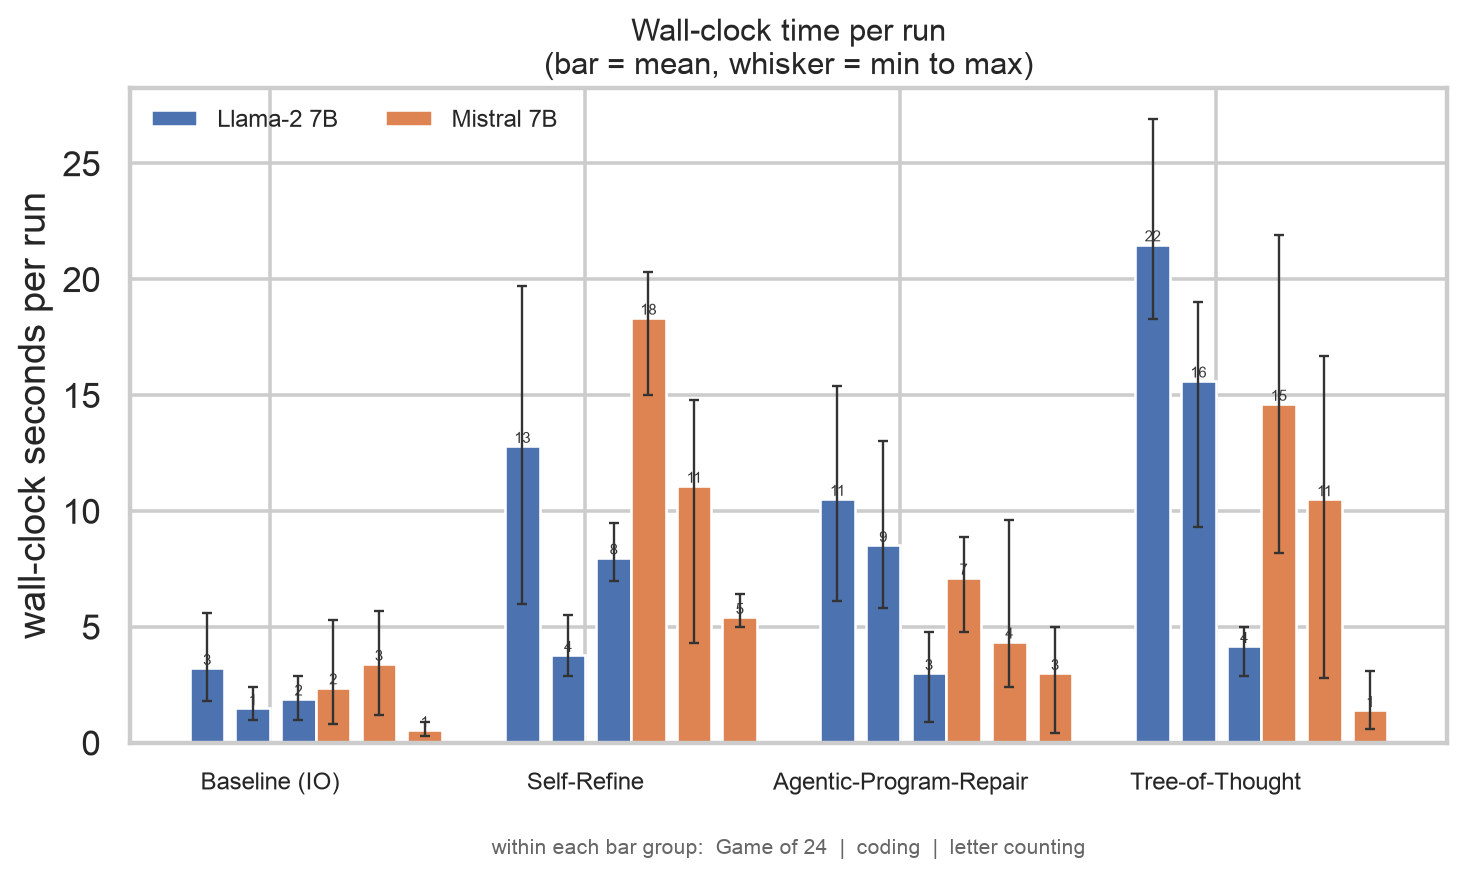
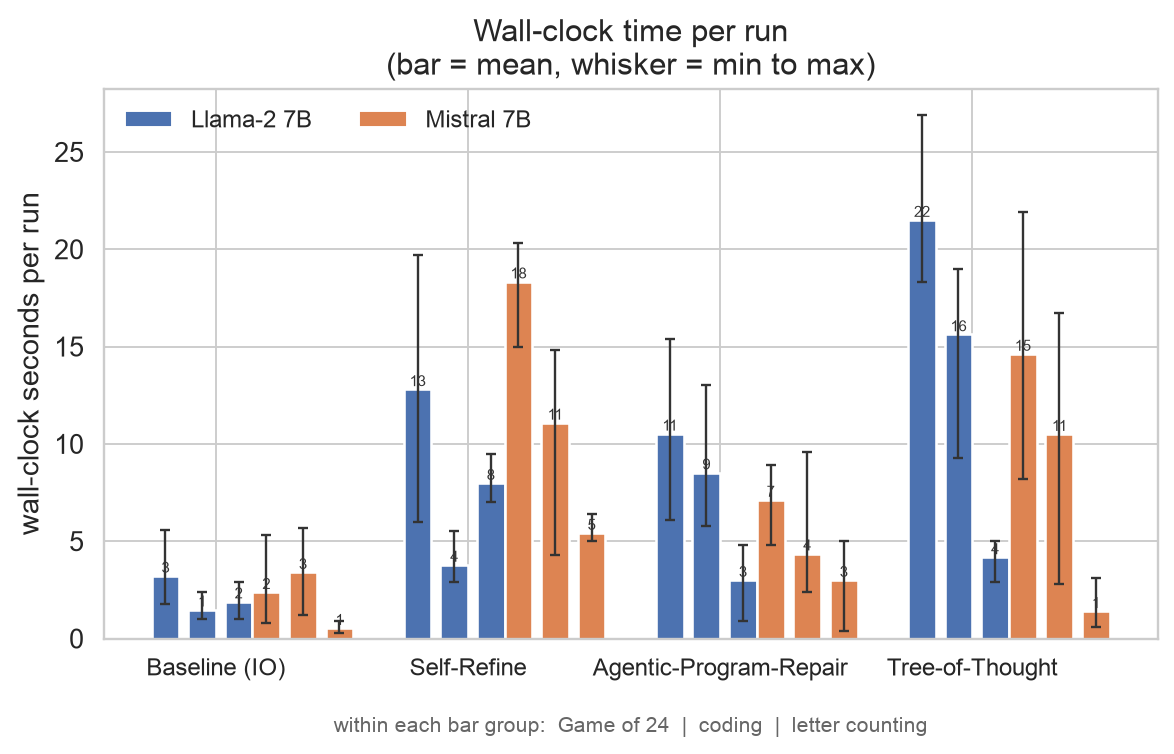
Self-contained Beam theme, no inline style block, smaller fonts/figures, task IDs in Appendix A

Changed region(s): [[0.0, 0.0, 1.0, 0.9151], [0.276, 0.9456, 0.7973, 0.9761], [0.0613, 0.8236, 0.092, 0.8541]]

diff --git a/slides/themes/beam-ucla.css b/slides/themes/beam-ucla.css
@@ -1,0 +1,205 @@
+/* @theme beam-ucla */
+/* Beam theme (c) rnd195, GNU GPLv3 - github.com/rnd195/my-marp-themes - vendored verbatim from
+   https://rnd195.github.io/my-marp-themes/beam.css, followed by a short OVERRIDES block at the
+   end of this file. Single self-contained theme so `--theme-set` needs only this one path. */
+/* author: rnd195 github.com/rnd195 */
+/* beam license: GNU GPLv3 github.com/rnd195/my-marp-themes/blob/live/licenses/LICENSE_beam */
+/* beamer license: GNU GPLv2 github.com/rnd195/my-marp-themes/blob/live/licenses/LICENSE_GPLv2 */
+
+/* base: marp default theme is injected automatically */
+
+:root {
+  font-family: "CMU Sans Serif", "Segoe UI", Helvetica, sans-serif;
+  --main: #1f38c5;
+  --secondary: #141414;
+  --font-size: 0.6em;
+}
+
+/* --- BOTTOM BAR --- */
+section {
+  background-color: #ffffff;
+  /* Bottom two-coloured bar in base64 - translates to SVG */
[1 lines of base64/hex data omitted]
+  background-repeat: no-repeat;
+  background-position: center bottom;
+  background-size: 150% 1em;
+  padding: 2em;
+}
+
+header {
+  font-size: var(--font-size);
+  text-align: right;
+  position: absolute;
+  top: 96.2%;
+  width: 100%;
+  right: 0;
+  left: -51%;
+  color: white;
+}
+
+footer {
+  font-size: var(--font-size);
+  position: absolute;
+  text-align: left;
+  top: 96.2%;
+  width: 100%;
+  right: 0;
+  left: 50.8%;
+  color: white;
+}
+
+/* Formatting page numbers  */
+section::after {
+  font-size: var(--font-size);
+  /* From github.com/yhatt/marp/issues/263 */
+  content: attr(data-marpit-pagination) " / " attr(data-marpit-pagination-total);
+  position: absolute;
+  text-align: right;
+  top: 96.2%;
+  width: 100%;
+  right: 0;
+  left: -0.5em;
+  color: white;
+}
+
+/* --- TITLES --- */
+h1,
+h2,
+h3,
+h4,
+h5,
+h6 {
+  color: #141414;
+}
+
+h1:nth-of-type(1) {
+  font-family: "CMU Bright", "Segoe UI Semibold";
+  color: #ffffff;
+  background-color: var(--main);
+  border-top: 0.3em solid var(--main);
+  padding: 0;
+  position: absolute;
+  top: 0;
+  right: 0;
+  width: 100%;
+  height: 1.5em;
+  text-indent: 0.5em;
+}
+
+/* --- TEXT CHANGES --- */
+code {
+  background-color: rgba(100, 100, 100, 0.2);
+}
+
+mark {
+  background-color: #f5db7e;
+}
+
+/* Inline math was too large with respect to text */
+.katex {
+  font:
+    normal 1.05em KaTeX_Main,
+    "Times New Roman",
+    serif;
+}
+
+/* --- CUSTOM CLASSES AND KEYWORDS --- */
+/* <!-- _class: title --> */
+/* Transforms a slide to a title page - intended for the first slide */
+section.title > h1 {
+  font-family: "CMU Bright", "Segoe UI Semibold";
+  color: #ffffff;
+  background-color: var(--main);
+  border-radius: 25px;
+  text-align: center;
+  top: 25%;
+  left: 0;
+  right: 0;
+  margin-left: auto;
+  margin-right: auto;
+  width: 80%;
+  padding-bottom: 0.2em;
+  height: auto;
+}
+
+section.title > p {
+  position: relative;
+  text-align: center;
+  top: 35px;
+}
+
+/* <!-- _class: tinytext --> */
+/* Makes p, ul, and blockquote text smaller to fit more text on a slide */
+section.tinytext > p,
+section.tinytext > ul,
+section.tinytext > blockquote {
+  font-size: 0.65em;
+}
+
+/* img keyword "center" */
+/* Centers an image, from github.com/marp-team/marpit/issues/141#issuecomment-473204518 */
+img[alt~="center"] {
+  display: block;
+  margin: 0 auto;
+}
+
+
+/* ============================================================================
+   OVERRIDES (everything below this line is local to this project)
+   1. Beam parks header/footer at the very slide edges in white - invisible on the white
+      body and colliding with the title banner. Lift them inside and tint them grey.
+   2. Cap text and table sizes so dense slides stay on the page.
+   3. Keep the page counter clear of the footer text.
+   ============================================================================ */
+
+:root {
+  --font-size: 0.5em;
+}
+
+section {
+  font-size: 17px;
+}
+
+header {
+  top: 0.5em;
+  left: 0;
+  right: 1.6em;
+  bottom: auto;
+  width: auto;
+  color: #6b7280;
+  text-align: right;
+}
+
+footer {
+  top: auto;
+  bottom: 0.55em;
+  left: 1.6em;
+  right: auto;
+  width: auto;
+  color: #6b7280;
+  text-align: left;
+}
+
+section::after {
+  left: auto;
+  right: 1.6em;
+  color: #9ca3af;
+}
+
+h2 {
+  font-size: 1.3em;
+}
+
+table {
+  font-size: 0.82em;
+}
+
+th,
+td {
+  padding: 2px 7px;
+}
+
+img {
+  display: block;
+  margin: 4px auto 0 auto;
+}

diff --git a/plot.py b/plot.py
@@ -88,7 +88,7 @@ def fig_success_rate(df, outdir, path="success-rate.png"):
     """Grouped by method, then model, then task family: every method shows 2 model bars
     (Llama-2, Mistral) and each of those is split into 3 skinny bars for {24, code, count}."""
     models = sorted(df["model"].unique())
-    fig, ax = plt.subplots(figsize=(10, 5))
+    fig, ax = plt.subplots(figsize=(8, 4.2))
     bar_w, pad = 0.11, 0.035
     for mi, m in enumerate(METHODS):
         for pi, mod in enumerate(models):
@@ -119,7 +119,7 @@ def fig_per_run(df, outdir, metric="gen_tokens", ylabel="generated tokens per ru
     """Same grouping (method -> model -> family), showing the spread of a per-run metric
     as a bar to the mean plus a min-max whisker."""
     models = sorted(df["model"].unique())
-    fig, ax = plt.subplots(figsize=(10, 5))
+    fig, ax = plt.subplots(figsize=(8, 4.2))
     bar_w, pad = 0.11, 0.035
     for mi, m in enumerate(METHODS):
         for pi, mod in enumerate(models):
@@ -234,7 +234,8 @@ def main():
     ap.add_argument("--tables", metavar="TABLES.md", help="also write the tables as markdown")
     ap.add_argument("--no-figure", action="store_true", help="tables only")
     a = ap.parse_args()
-    sns.set_theme(style="whitegrid", context="talk", font_scale=0.9)
+    # "paper" context + 0.8 scale keeps labels legible when the figure is scaled into a slide
+    sns.set_theme(style="whitegrid", context="paper", font_scale=1.3)
     df = load(a.results)
     g = summary(df)
     p = pooled(df)

diff --git a/slides/deck.md b/slides/deck.md
@@ -1,17 +1,21 @@
 ---
 marp: true
-theme: beam
+theme: beam-ucla
 paginate: true
 header: 'Bruce Li, Andy Wang, Cecilia Xu'
 footer: 'UCLA Samueli School of Engineering'
 ---
 
 <!--
-RENDER  (from the repo root)
-  marp slides/deck.md --theme-set slides/themes/beam.css -o slides/deck.pdf --allow-local-files
-The theme is vendored at slides/themes/beam.css from https://github.com/rnd195/my-marp-themes
-Presenter notes live in HTML comments and never render into the PDF.
+RENDER  (from the repo root, and the theme MUST be given to marp)
+  marp slides/deck.md --theme-set slides/themes/beam-ucla.css -o slides/deck.pdf --allow-local-files
+Without --theme-set, marp does not find the theme and silently renders with its default theme -
+that is the difference between "looks like Beam" and "looks like plain markdown".
+The only CSS lives in slides/themes/: beam.css is vendored from
+https://rnd195.github.io/my-marp-themes/beam.css and beam-ucla.css adds small overrides.
 -->
+
+<!-- Presenter notes live in HTML comments and never render into the PDF. -->
 
 <!-- _class: title -->
 
@@ -110,7 +114,7 @@ Notes:
 
 # Success rate
 
-![w:950](visuals/success-rate.png)
+![w:820](visuals/success-rate.png)
 
 **Findings:**
 - **Agentic-PR wins overall (35%)** and is the strongest method on coding and on counting.
@@ -131,7 +135,7 @@ Notes:
 
 # Tokens spent
 
-![w:950](visuals/tokens.png)
+![w:820](visuals/tokens.png)
 
 **Findings:**
 - **Game of 24 costs the most for every method** — and it is the family almost nobody solves.
@@ -150,7 +154,7 @@ Notes:
 
 # Wall-clock time
 
-![w:950](visuals/wall-time.png)
+![w:820](visuals/wall-time.png)
 
 **Findings:**
 - **Baseline is 5× faster than Self-Refine** (2.1s vs 10.0s per run) and both are stable across models — time tracks *how many calls* a method makes, not how good it is.
@@ -191,16 +195,16 @@ Notes:
 
 # Appendix A — Task distribution
 
-| Family | Tasks | Runs per model, per method |
+| Family | Tasks | Task IDs |
 |---|---|---|
-| Game of 24 | 6 | 6 |
-| Coding | 5 | 5 |
-| Letter counting | 6 | 6 |
-| **Total** | **17** | **17** |
+| Game of 24 | 6 | `g24-0` … `g24-5` |
+| Coding | 5 | `prog-merge_intervals`, `prog-rotate`, `prog-kth_largest`, `prog-parse_formula`, `prog-merge_sorted_arrays` |
+| Letter counting | 6 | `count-strawberry`, `count-raspberry`, `count-Mississippi`, `count-bookkeeper`, `count-dreadnought`, `count-refrigerator` |
+| **Total** | **17** | |
 
-Total runs: 2 models × 4 methods × 17 tasks = **136**
+Each task gets 8 runs (2 models × 4 methods) → 2 × 4 × 17 = **136 runs**.
 
-Per task, 8 runs (2 models × 4 methods). Six tasks were solved by nobody: five Game of 24 puzzles and `parse_formula`.
+Six tasks were solved by nobody: `g24-1` … `g24-5` and `prog-parse_formula`.
 
 <!--
 Notes:

diff --git a/README.md b/README.md
@@ -409,14 +409,20 @@ plot.py     the figures: solve rate, cost per solve, per family, token placement
 papers/     the three papers, plus my extracted text copies for grepping
 data/       results.json (laptop reference), results-full.json (GPU run), smoke.json, answers-*.md
 visuals/    success-rate.png, tokens.png, wall-time.png, TABLES.md
-slides/     deck.md (Marp, Beam theme vendored in slides/themes/beam.css)
+slides/     deck.md (Marp, Beam theme in slides/themes/beam-ucla.css)
 ```
 
 Papers: `papers/tree-of-thoughts.pdf`, `papers/self-refine.pdf`, `papers/agent-program-repair.pdf`.
 
-Deck: `slides/deck.md` uses the [Beam theme](https://github.com/rnd195/my-marp-themes) (vendored at
-`slides/themes/beam.css`). Render it from the repo root:
+Deck: `slides/deck.md` uses the [Beam theme](https://github.com/rnd195/my-marp-themes). Render it
+from the repo root, **passing the theme explicitly**:
 
 ```bash
-marp slides/deck.md --theme-set slides/themes/beam.css -o slides/deck.pdf --allow-local-files
+marp slides/deck.md --theme-set slides/themes/beam-ucla.css -o slides/deck.pdf --allow-local-files
 ```
+
+Without `--theme-set`, marp cannot find a theme named `beam-ucla` and silently falls back to its
+default theme, so the deck renders as plain markdown rather than Beam. All CSS lives in
+`slides/themes/`: `beam.css` is the upstream theme vendored verbatim, and `beam-ucla.css` is the
+single self-contained theme the deck actually uses (Beam + a short overrides block for readable
+header/footer text and tighter table sizing).
